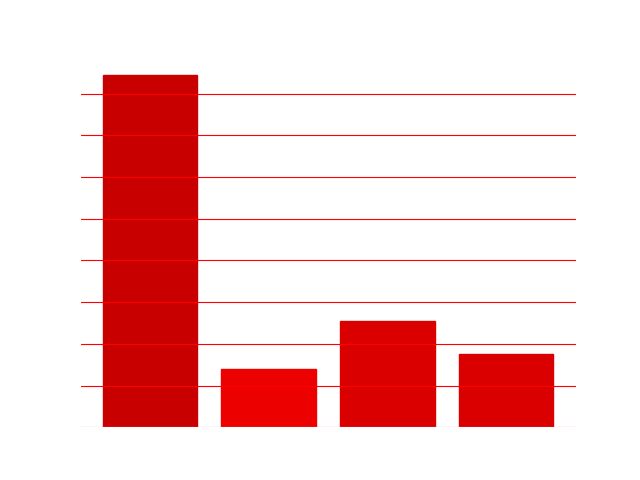
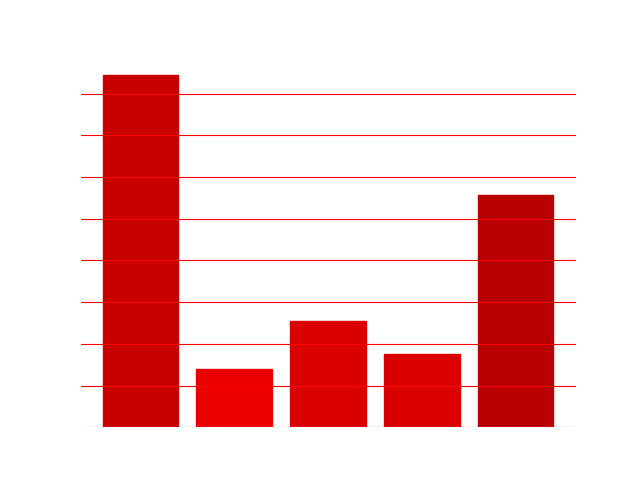
Adds 44-1703E and fixes the time

Changed region(s): [[0.5625, 0.4062, 0.875, 0.9062], [0.2812, 0.1562, 0.3438, 0.9062], [0.4062, 0.6562, 0.5312, 0.9062]]

diff --git a/stats.py b/stats.py
@@ -10,19 +10,19 @@ import matplotlib.pyplot as plt
 #   sorted by time. The elements are codeforces Submission
 #   objects: https://codeforces.com/apiHelp/objects#Submission
 if len(sys.argv) > 1:
-	arg = sys.argv[1]
-	id = int(arg[arg.find('-')+1:-5])
-	letter = arg[-5:-4]
-	insert = time.strftime(",%Y-%m-%d %H:%M:%S,%s,", time.gmtime())
-	insert += sys.argv[2] + ','
-	link = "https://codeforces.com/api/user.status?handle=06tron"
-	subs = requests.get(link).json()["result"]
-	with open("times.csv", 'a') as times:
-		for s in subs:
-			if id == s["contestId"] and letter == s["problem"]["index"]:
-				insert += str(s["problem"]["rating"]) + '\n'
-				times.write(insert)
-				break
+    arg = sys.argv[1]
+    id = int(arg[arg.find('-')+1:-5])
+    letter = arg[-5:-4]
+    insert = time.strftime(",%Y-%m-%d %H:%M:%S,", time.gmtime())
+    insert += sys.argv[2] + ',' + sys.argv[3] + ','
+    url = "https://codeforces.com/api/user.status?handle=06tron&from=1&count=10"
+    subs = requests.get(url).json()["result"]
+    with open("times.csv", 'a') as times:
+        for s in subs:
+            if id == s["contestId"] and letter == s["problem"]["index"]:
+                insert += str(s["problem"]["rating"]) + '\n'
+                times.write(insert)
+                break
 
 # The number of characters in template.cpp
 template_chars = 152
@@ -69,7 +69,7 @@ colors = {
     "axes.edgecolor": "white",
     "xtick.color": "white",
     "ytick.color": "white",
-	"grid.color": "red"
+    "grid.color": "red"
 }
 
 # Generate two bar charts, one for minutes to solve a problem,

diff --git a/normal/44-1703E.cpp b/normal/44-1703E.cpp
@@ -1,0 +1,27 @@
+#include <iostream>
+
+int main() {
+	std::ios_base::sync_with_stdio(false);
+	std::cin.tie(NULL);
+	int tests;
+	std::cin >> tests;
+	while (tests--) {
+		int n, ops = 0;
+		std::cin >> n;
+		std::string a[n];
+		for (int i = n; i--;) {
+			std::cin >> a[i];
+		}
+		--n;
+		for (int i = (n+2)/2; i--;) {
+			for (int j = (n+1)/2; j--;) {
+				int sum = a[i][j]-'0';
+				sum += a[j][n-i]-'0';
+				sum += a[n-i][n-j]-'0';
+				sum += a[n-j][i]-'0';
+				ops += sum > 2 ? 4-sum : sum;
+			}
+		}
+		std::cout << ops << '\n';
+	}
+}

diff --git a/mini/44mini.cpp b/mini/44mini.cpp
@@ -1,0 +1,13 @@
+#include <iostream>
+using namespace std;
+
+int main() {
+	int s,q,u,a,r,e;
+	for (cin>>s; s--; cout<<u<<'\n') {
+		cin>>q;
+		string h[q];
+		a=q--;
+		for (u=0; a--;) cin>>h[a];
+		for (a=q+2>>1; a--;) for (r=q+1>>1; r--; u+=e>2?4-e:e) e=h[a][r]+h[r][q-a]+h[q-a][q-r]+h[q-r][a]-192;
+	}
+}
